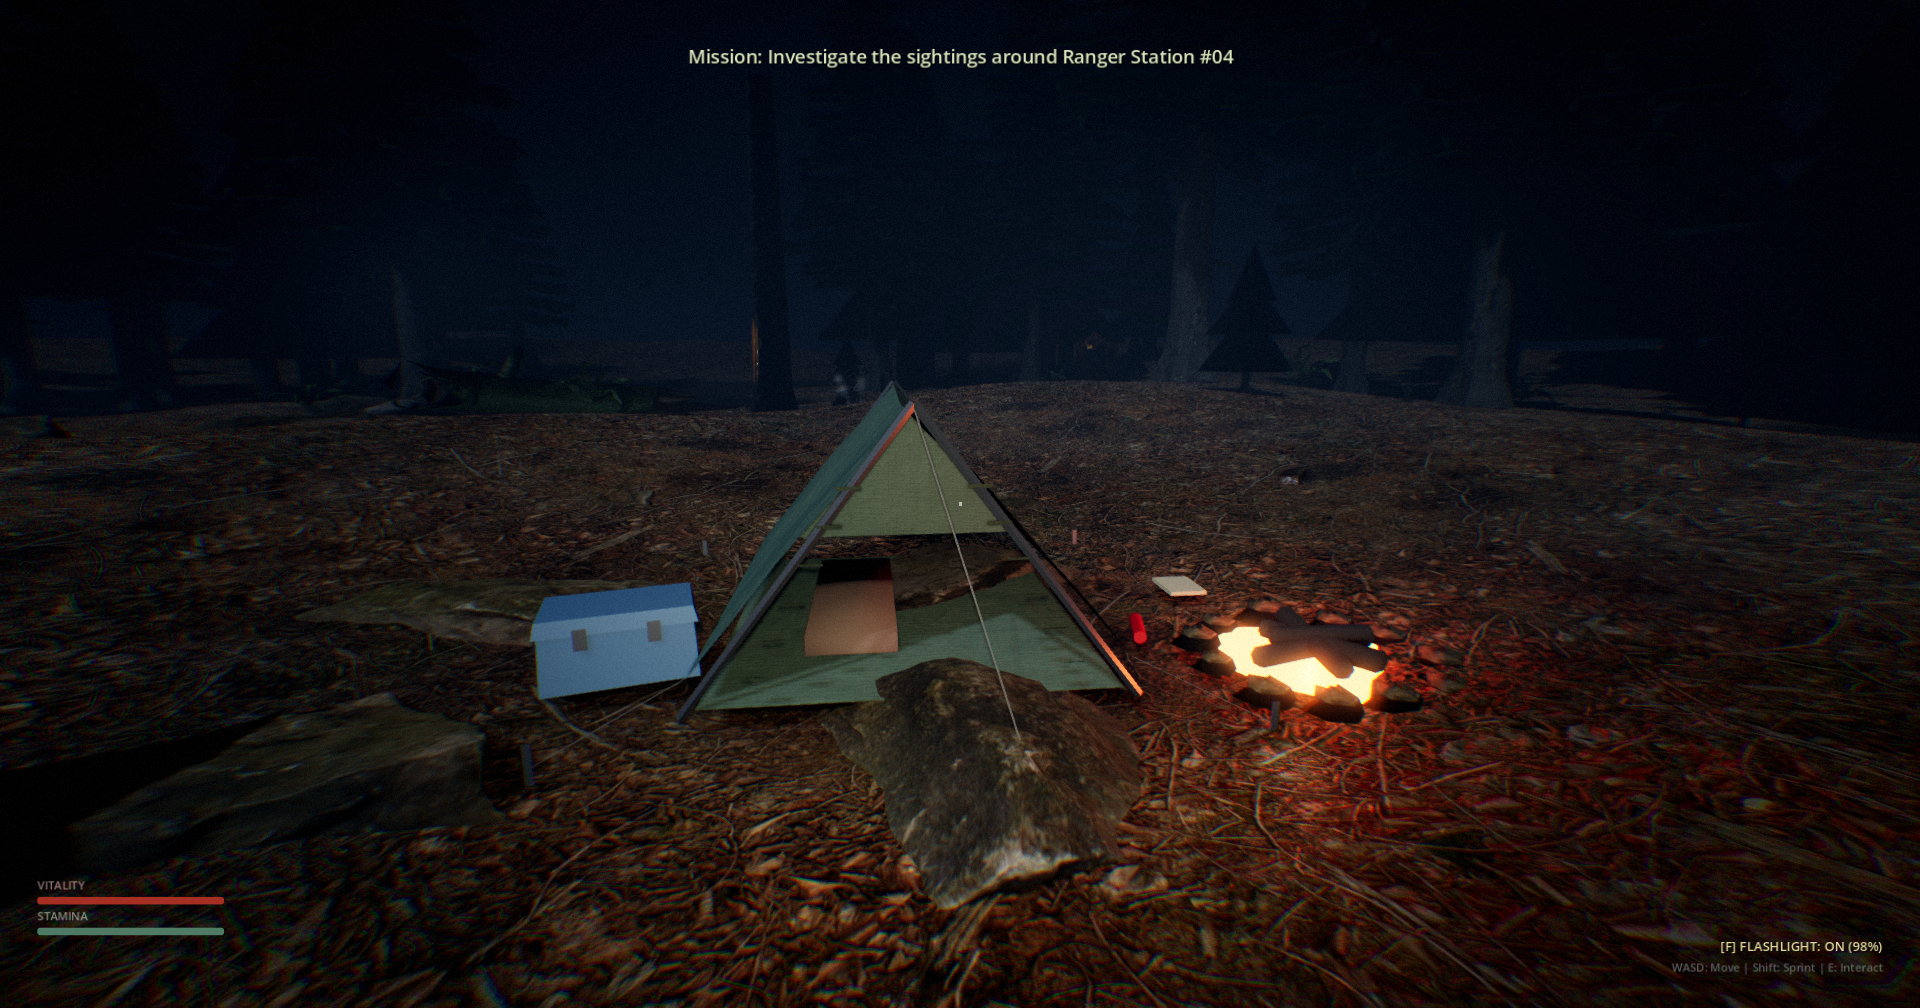
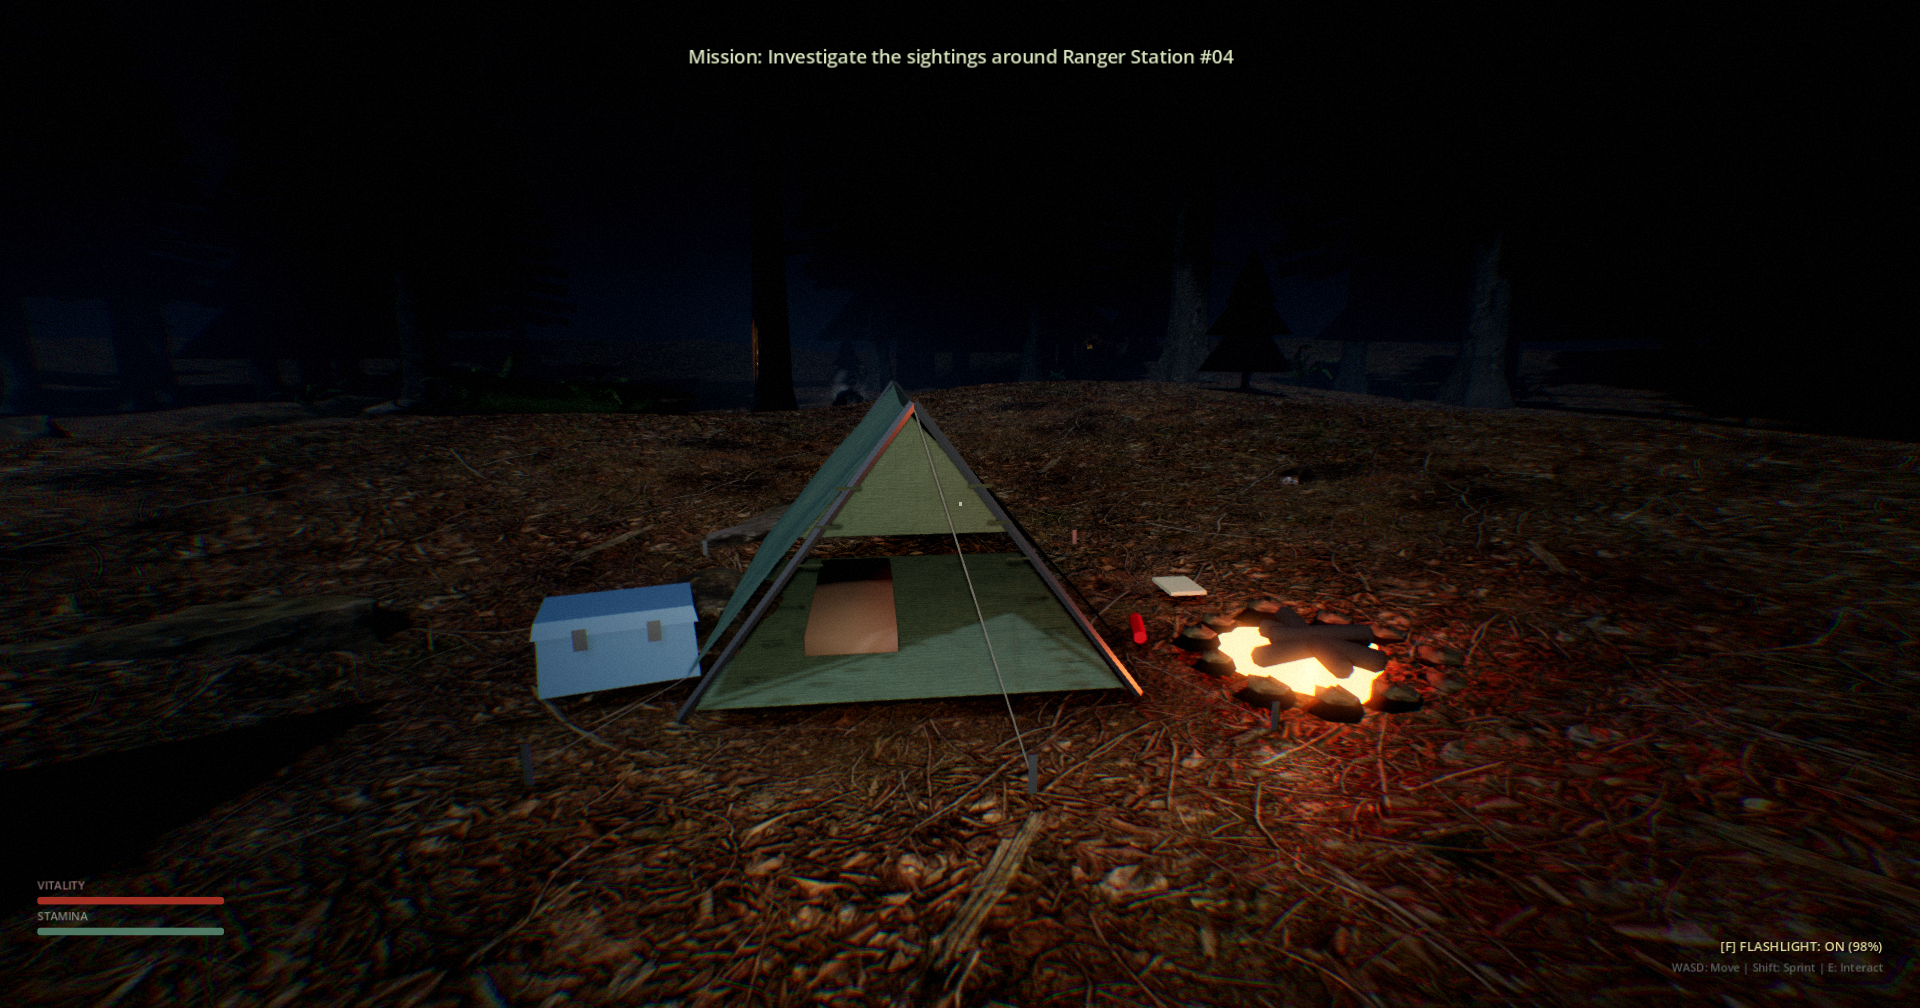
fix(graphics): resolve rock penetration into campsite tent and adjust groundsheet clearance

diff --git a/scripts/tools/build_campsite_blender.py b/scripts/tools/build_campsite_blender.py
@@ -162,10 +162,10 @@ def create_tent():
             f.loops[3][uv_layer].uv = (0.0, rt + 0.1)
 
     # 4. Interior Floor / Heavy Groundsheet
-    fl_v1 = bm.verts.new(Vector((-half_w * 0.98, -half_l * 0.98, 0.03)))
-    fl_v2 = bm.verts.new(Vector((half_w * 0.98, -half_l * 0.98, 0.03)))
-    fl_v3 = bm.verts.new(Vector((half_w * 0.98, half_l * 0.98, 0.03)))
-    fl_v4 = bm.verts.new(Vector((-half_w * 0.98, half_l * 0.98, 0.03)))
+    fl_v1 = bm.verts.new(Vector((-half_w * 0.98, -half_l * 0.98, 0.05)))
+    fl_v2 = bm.verts.new(Vector((half_w * 0.98, -half_l * 0.98, 0.05)))
+    fl_v3 = bm.verts.new(Vector((half_w * 0.98, half_l * 0.98, 0.05)))
+    fl_v4 = bm.verts.new(Vector((-half_w * 0.98, half_l * 0.98, 0.05)))
     f_floor = bm.faces.new((fl_v1, fl_v2, fl_v3, fl_v4))
     f_floor.material_index = 0
     f_floor.smooth = True
@@ -180,14 +180,14 @@ def create_tent():
     bed_len = 1.7
     bed_w = 0.55
     bed_h = 0.12
-    bv1 = bm.verts.new(Vector((bed_x - bed_w * 0.5, bed_y_start, 0.04)))
-    bv2 = bm.verts.new(Vector((bed_x + bed_w * 0.5, bed_y_start, 0.04)))
-    bv3 = bm.verts.new(Vector((bed_x + bed_w * 0.5, bed_y_start + bed_len, 0.04)))
-    bv4 = bm.verts.new(Vector((bed_x - bed_w * 0.5, bed_y_start + bed_len, 0.04)))
-    bv5 = bm.verts.new(Vector((bed_x - bed_w * 0.5, bed_y_start, 0.04 + bed_h)))
-    bv6 = bm.verts.new(Vector((bed_x + bed_w * 0.5, bed_y_start, 0.04 + bed_h)))
-    bv7 = bm.verts.new(Vector((bed_x + bed_w * 0.5, bed_y_start + bed_len, 0.04 + bed_h)))
-    bv8 = bm.verts.new(Vector((bed_x - bed_w * 0.5, bed_y_start + bed_len, 0.04 + bed_h)))
+    bv1 = bm.verts.new(Vector((bed_x - bed_w * 0.5, bed_y_start, 0.06)))
+    bv2 = bm.verts.new(Vector((bed_x + bed_w * 0.5, bed_y_start, 0.06)))
+    bv3 = bm.verts.new(Vector((bed_x + bed_w * 0.5, bed_y_start + bed_len, 0.06)))
+    bv4 = bm.verts.new(Vector((bed_x - bed_w * 0.5, bed_y_start + bed_len, 0.06)))
+    bv5 = bm.verts.new(Vector((bed_x - bed_w * 0.5, bed_y_start, 0.06 + bed_h)))
+    bv6 = bm.verts.new(Vector((bed_x + bed_w * 0.5, bed_y_start, 0.06 + bed_h)))
+    bv7 = bm.verts.new(Vector((bed_x + bed_w * 0.5, bed_y_start + bed_len, 0.06 + bed_h)))
+    bv8 = bm.verts.new(Vector((bed_x - bed_w * 0.5, bed_y_start + bed_len, 0.06 + bed_h)))
 
     bed_faces = [
         (bv5, bv6, bv7, bv8),
